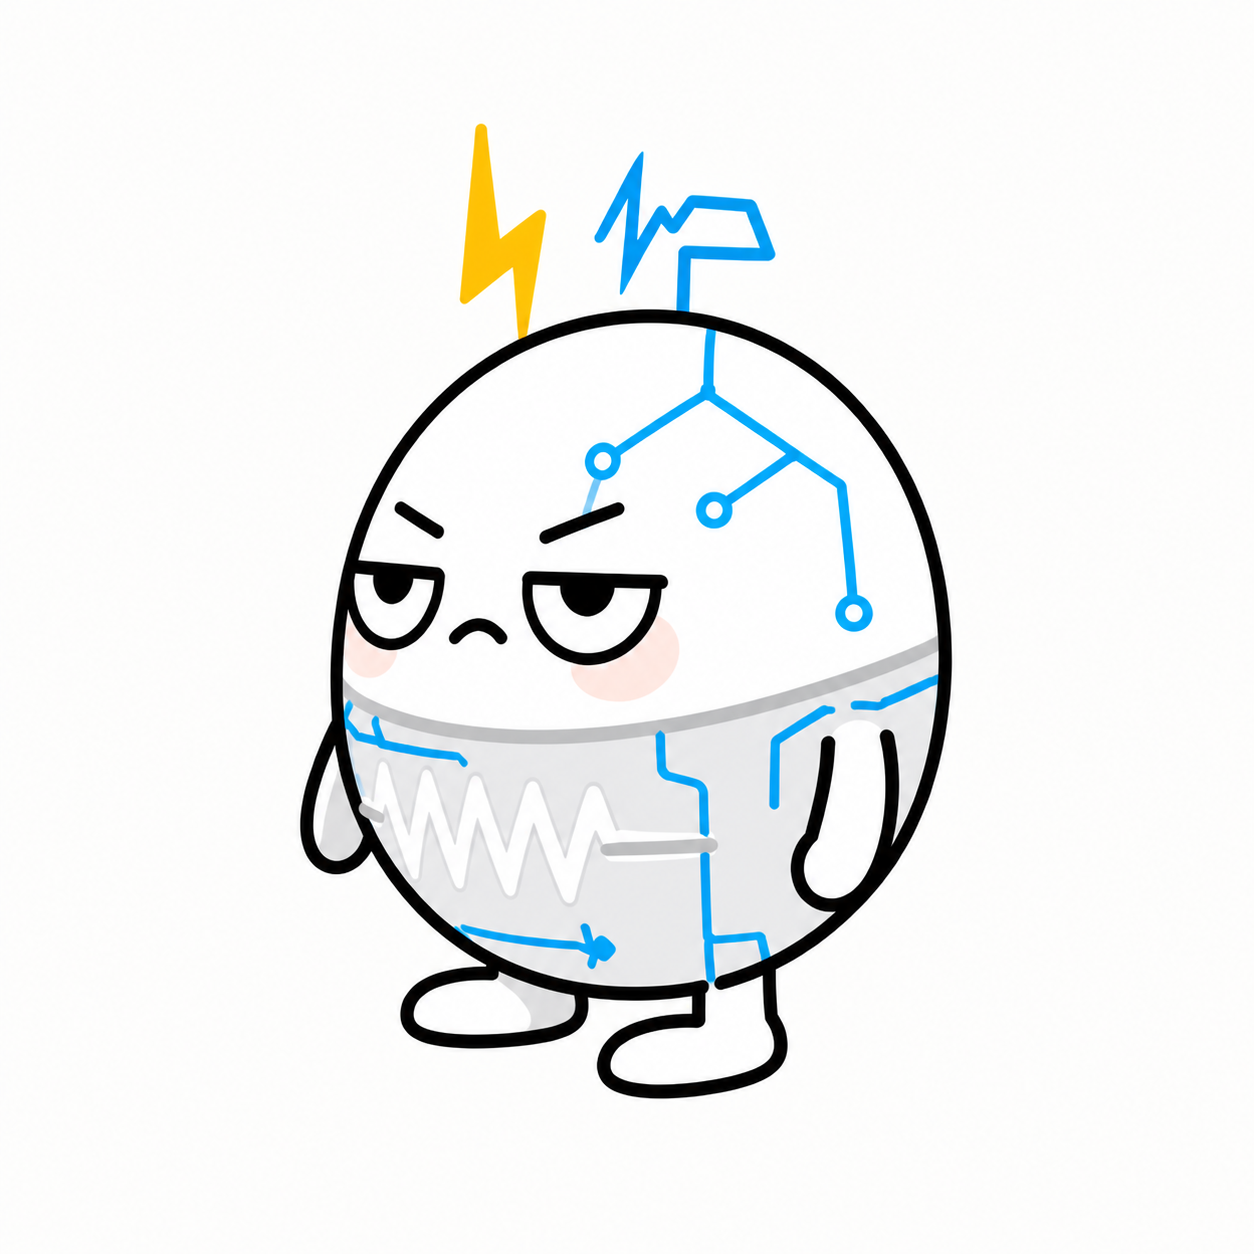
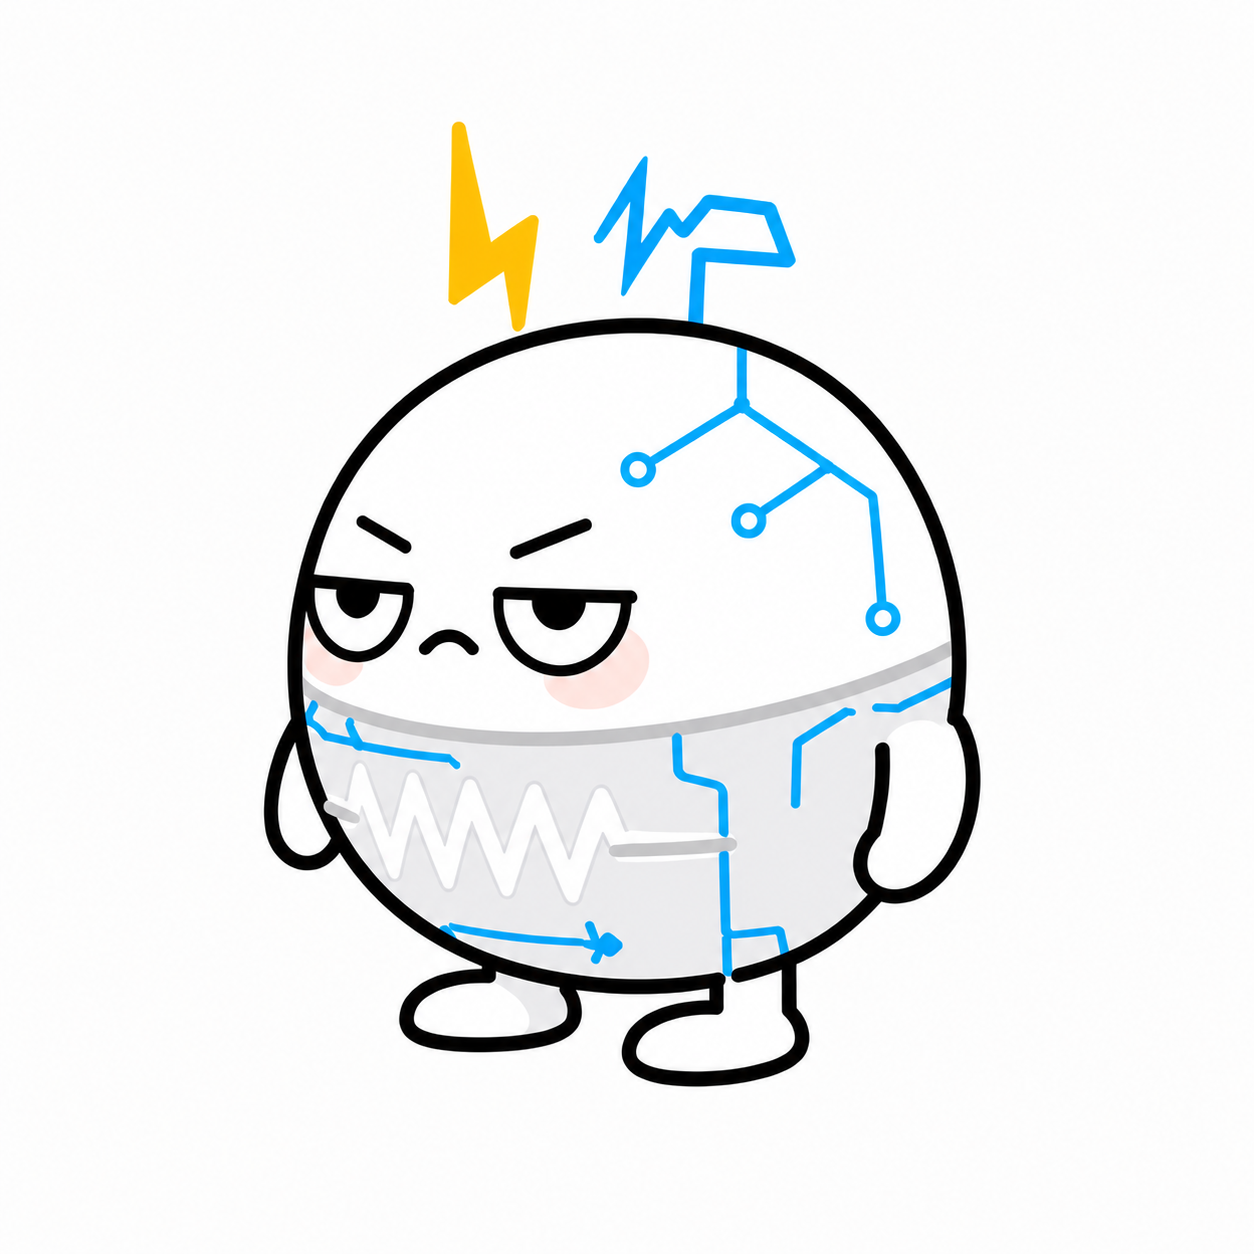
fix: round mascot left three-quarter view

Changed region(s): [[0.1866, 0.0933, 0.8086, 0.9019], [0.4354, 0.622, 0.4976, 0.7153]]

diff --git a/assets/brand/MULTIVIEW_IDENTITY_LOCK.md b/assets/brand/MULTIVIEW_IDENTITY_LOCK.md
@@ -15,7 +15,7 @@
[6 lines of base64/hex data omitted]
 
 正面副本与永久原版 SHA-256 完全一致，证明未重绘、未压缩、未改色。02—06 是机位派生设计，不得单独用于定义新身份；蓝色电路纹按视角延续，永久原版仍决定全部核心结构。
@@ -27,7 +27,7 @@
 - 永久母版的主体是横向饱满的近圆机体，不是纵向拉长的鸡蛋。圆度只测机体黑色外轮廓，不含头顶黄蓝标志、手脚。
 - 正面、背面和左右 3/4 的机体宽度不得低于高度的 95%；纯侧面允许极轻透视压窄，但宽度不得低于高度的 92%。
 - 先验收外轮廓，再看五官与纹路。即使颜色、五官、腰带和电路纹相似，只要轮廓高瘦或上窄下尖，仍判为身份失败。
-- 2026-08-06：用户判退旧版右侧面与右 3/4 的纵长鸡蛋轮廓；旧图保存在 `archive-rejected-roundness/`，不得作为正式机位参考。
+- 2026-08-06：用户先后判退旧版右侧面、左 3/4 与右 3/4 的纵长鸡蛋轮廓；三张旧图均保存在 `archive-rejected-roundness/`，不得作为正式机位参考。
 
 ## 动画硬门槛
 

diff --git a/README.md b/README.md
@@ -22,7 +22,7 @@
 - 最新制作：[第 011 集｜AI 没抢他的工作](episodes/011-ai-script-read-aloud/README.md)，采用“真人现场约 2 秒 → 小耗儿接棒模仿 → 近景吐槽”的三段结构；后半段两张小耗儿关键帧与图生视频提示词已完成，真人新闻片段由用户自行处理
 - 最新制作：[第 012 集｜别让脑补替你加班](episodes/012-dance-off-the-stress/README.md)，v2 五张连续关键帧、17秒口播和4段可独立整框复制的有声视频提示词已完成，待生成动态；原花海跳舞版保留为v1历史候选
 - 最新制作：[第 013 集｜外耗不是伤人，是把问题还回去](episodes/013-return-the-problem/README.md)，已升级为“小耗儿单主角 v2”：17 张竖屏关键帧、22 秒时间轴、单一固定声音配置与 17 条独立有声视频提示词已完成，待登记小耗儿实际声音锚点并生成动态
-- 最新制作：[第 014 集｜没人惯着你，怎么全是福利](episodes/014-nobody-spoils-you-buff/README.md)，21 秒生产稿、10 张 941×1672 关键帧、10 条逐帧身份锁有声视频提示词、剪辑/声音/发布包及永久六视图母版已完成；右侧面与右 3/4 已按母版圆度返工，提示词同步禁止纵向鸡蛋化；待登记小耗儿与 NPC 的实际声音锚点并生成动态
+- 最新制作：[第 014 集｜没人惯着你，怎么全是福利](episodes/014-nobody-spoils-you-buff/README.md)，21 秒生产稿、10 张 941×1672 关键帧、10 条逐帧身份锁有声视频提示词、剪辑/声音/发布包及永久六视图母版已完成；右侧面、左 3/4 与右 3/4 已按母版圆度返工，提示词同步禁止纵向鸡蛋化；待登记小耗儿与 NPC 的实际声音锚点并生成动态
 
 ## 换电脑后怎样继续
 

diff --git a/episodes/014-nobody-spoils-you-buff/README.md b/episodes/014-nobody-spoils-you-buff/README.md
@@ -30,7 +30,7 @@
 ## 身份加固
 
 - 永久原版 `assets/brand/resistor-mascot-identity-master-original.jpg` 是唯一最高身份源。
-- 新建的 `assets/brand/resistor-mascot-multiview-v1/` 保存正、背、左、右、左 3/4、右 3/4 六视图；正面文件与永久原版字节完全一致，其他五张只作角度参考。用户判退纵长鸡蛋轮廓后，右侧面与右 3/4 已重做为横向饱满的近圆正式版，旧图只在 `archive-rejected-roundness/` 追溯。
+- 新建的 `assets/brand/resistor-mascot-multiview-v1/` 保存正、背、左、右、左 3/4、右 3/4 六视图；正面文件与永久原版字节完全一致，其他五张只作角度参考。用户判退纵长鸡蛋轮廓后，右侧面、左 3/4 与右 3/4 已重做为横向饱满的近圆正式版，旧图只在 `archive-rejected-roundness/` 追溯。
 - 本集 10 个镜头均为正面或接近正面，图片提示词逐条同时引用永久原版与正面角度图。
 - 10 条视频提示词逐条包含完整逐帧身份锁，明确禁止动画中变脸、瘦身、长手长腿、纹路跳位、头顶标志变形、肢体增生和换画风。
 - 本集 10 条图片提示词与 10 条视频提示词已同步加入圆度硬门槛：正面、背面和 3/4 的机体宽度不得低于高度的 95%，纯侧面不得低于 92%，任何帧都禁止纵向鸡蛋化。
